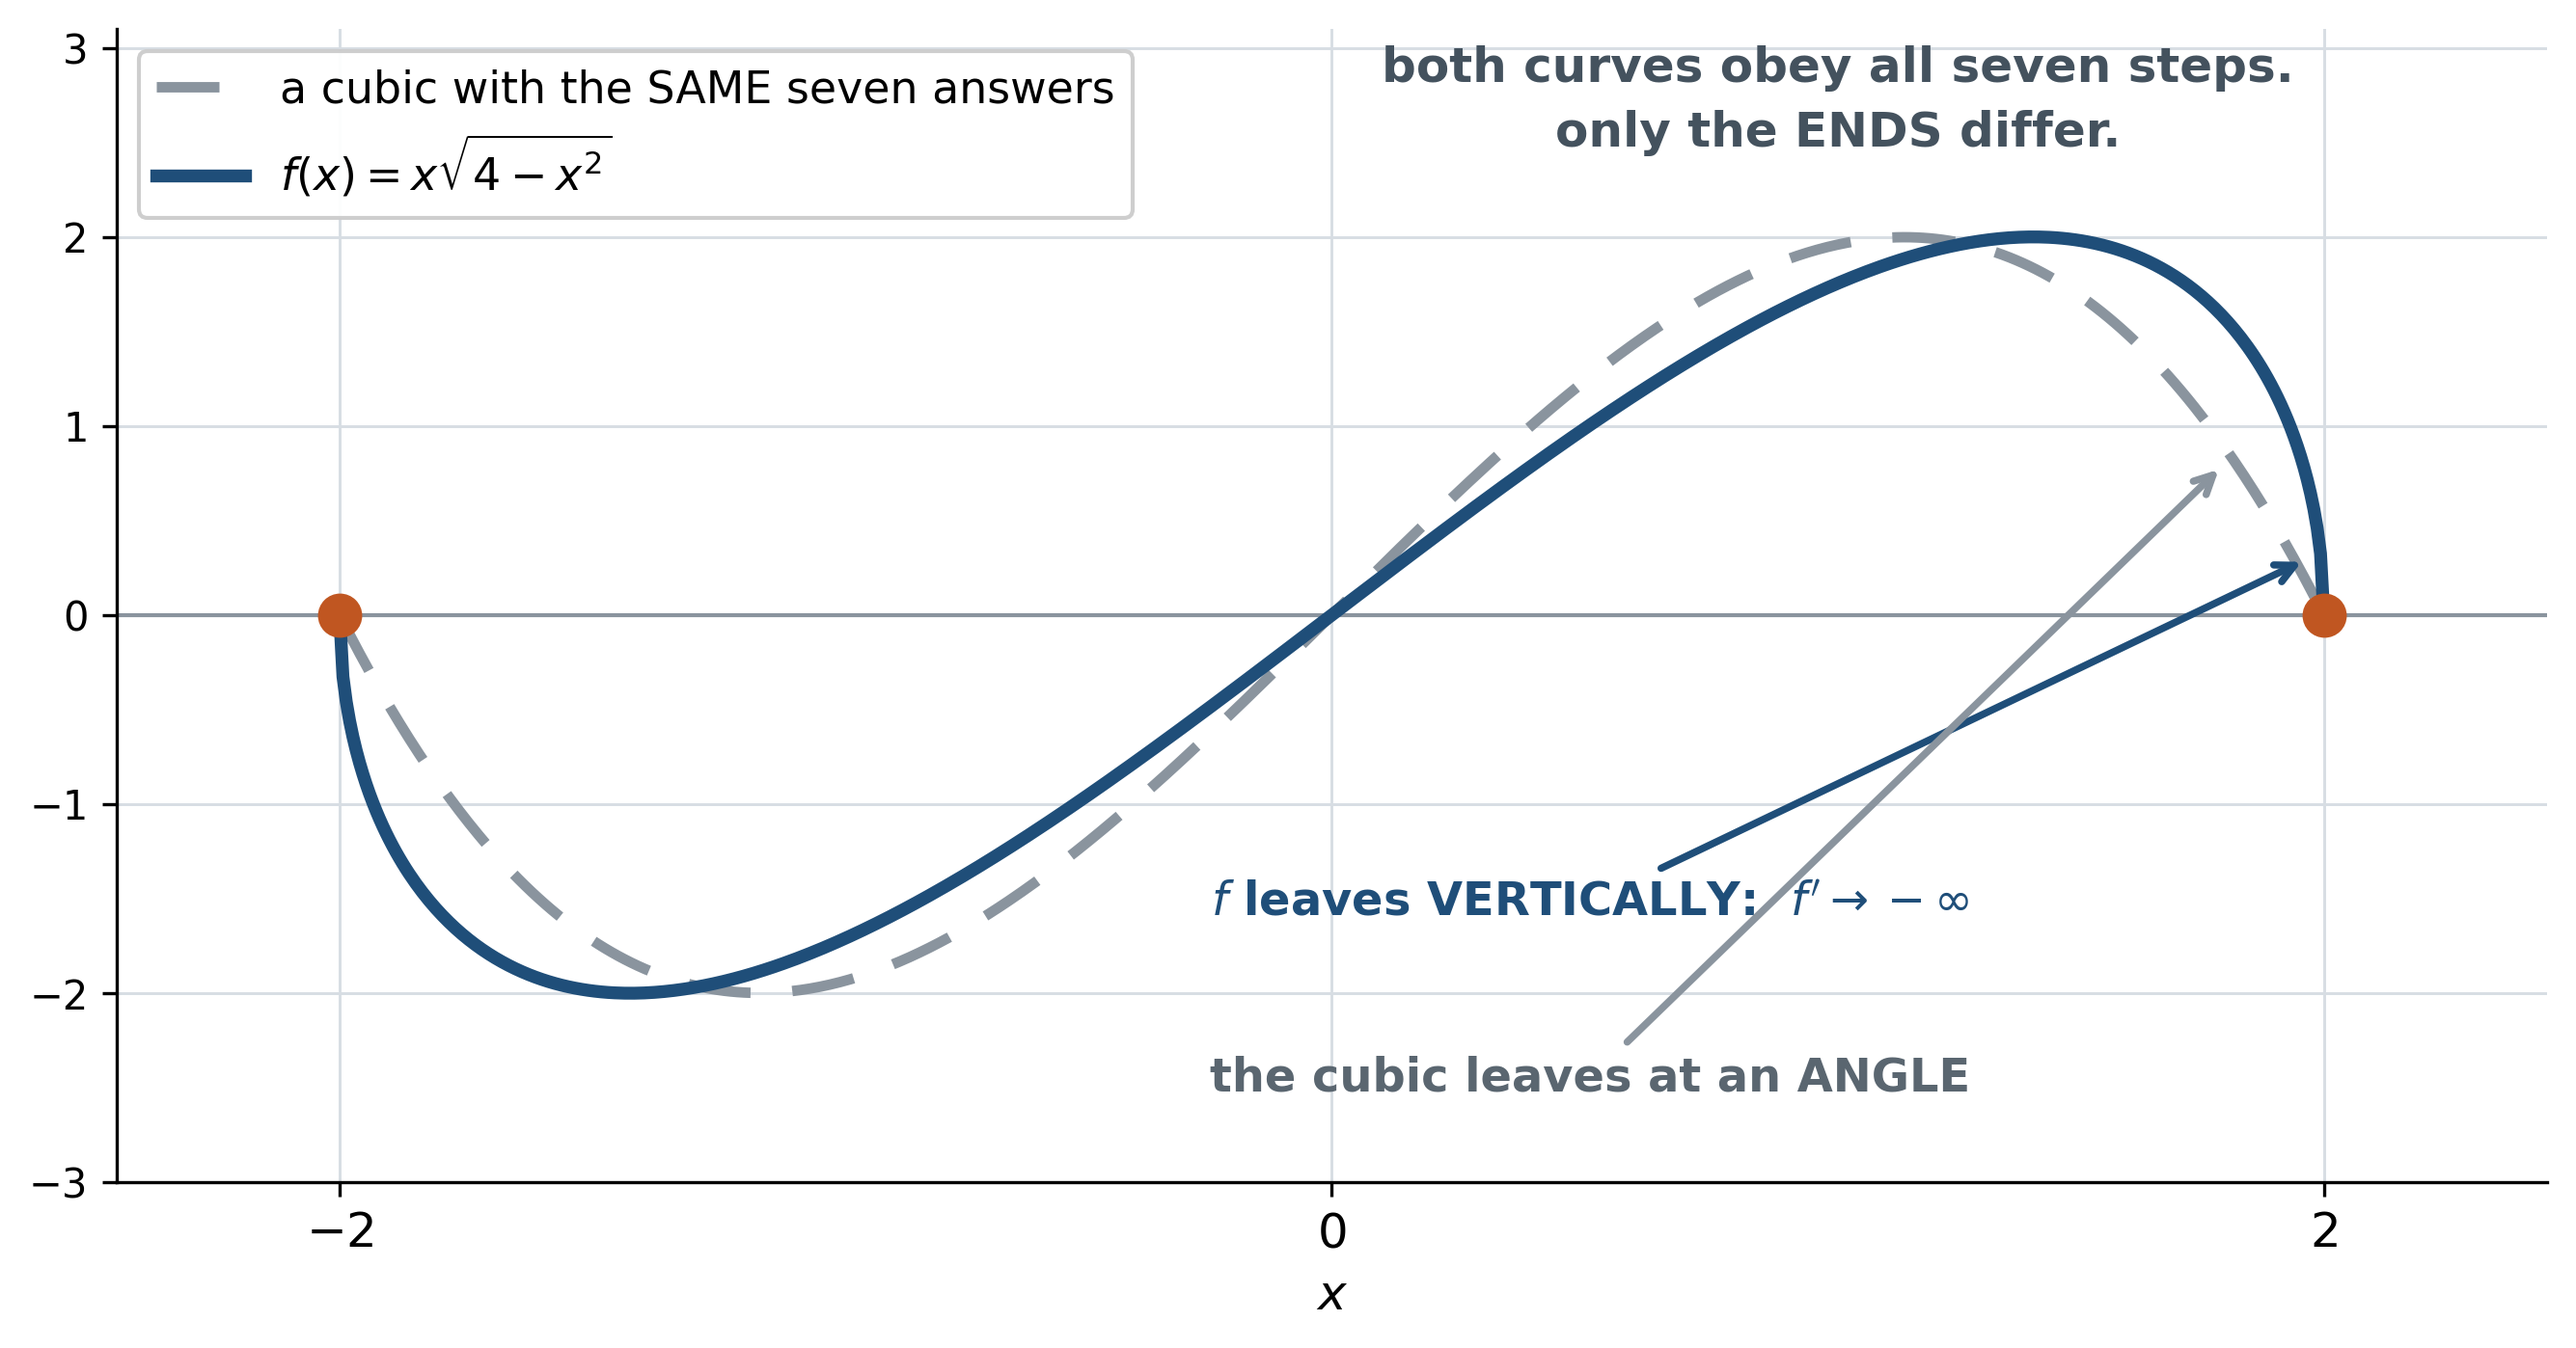
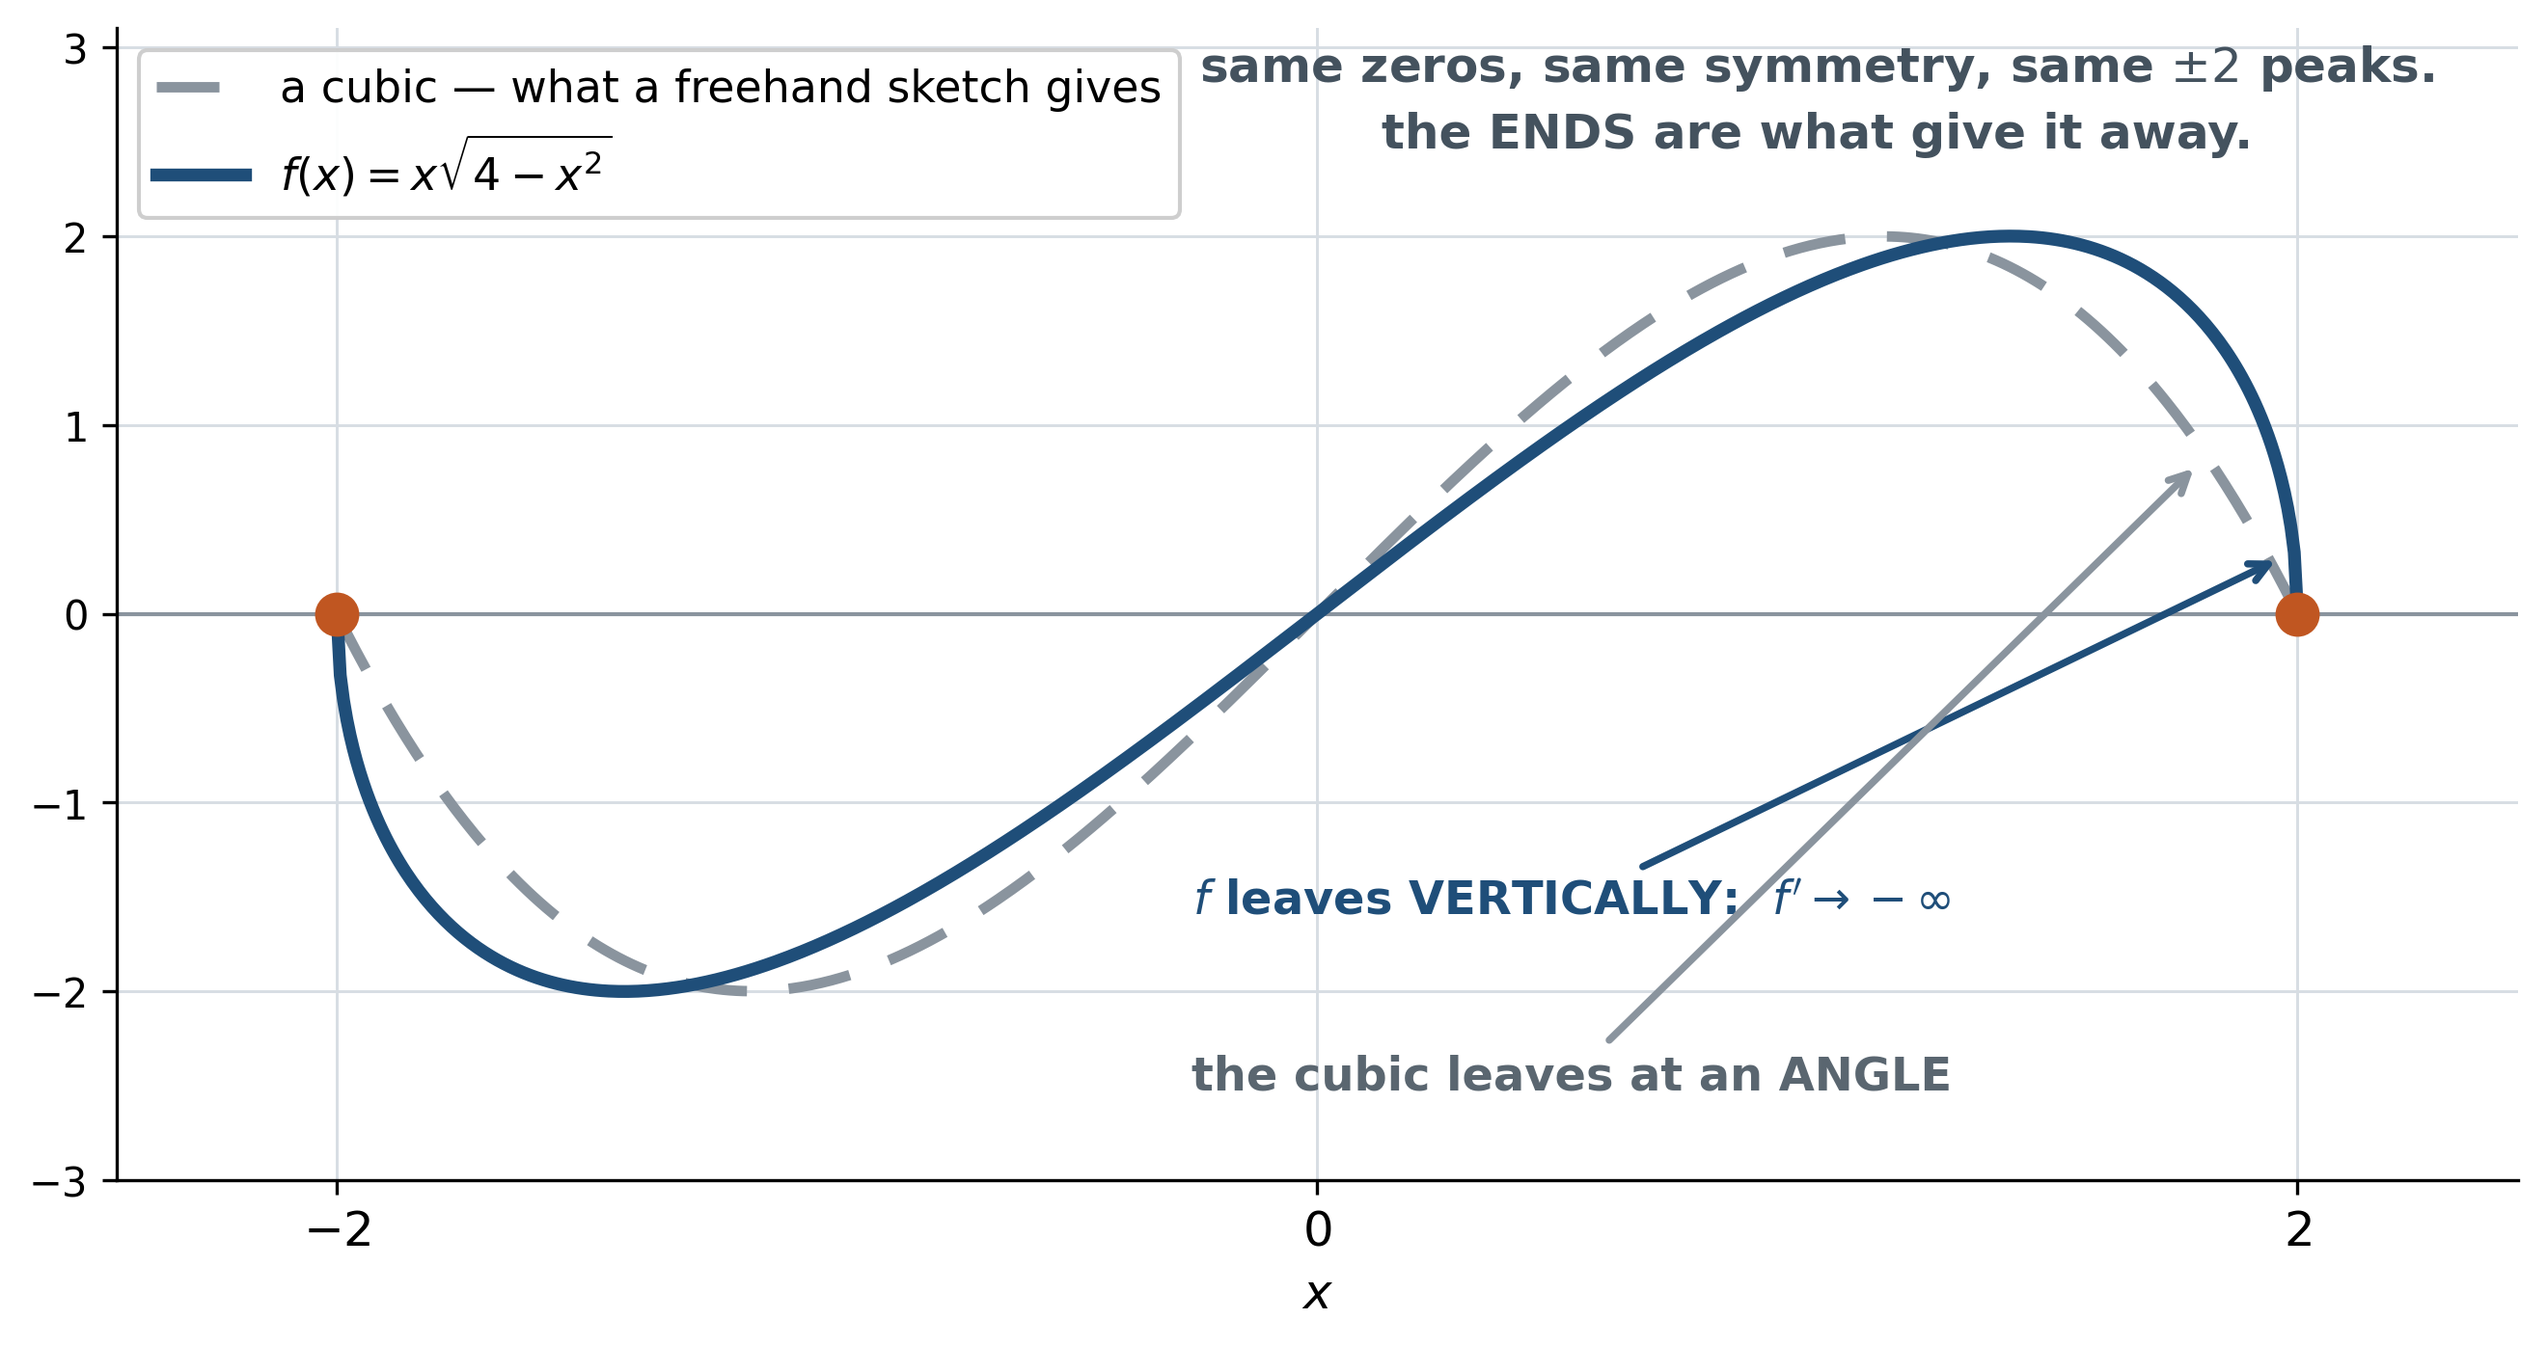
MTH207: update course resources

diff --git a/MTH207/notes/Section_4p5/Section_4p5_class.html b/MTH207/notes/Section_4p5/Section_4p5_class.html
@@ -328,7 +328,7 @@ in concavity is only an inflection point if the function is actually there.</str
 This is the same mistake as $\displaystyle f''(c)=0$ implying an inflection point, wearing
 different clothes &mdash; and it is why the domain is step 1.</p></div>
 </section>
-<section class="beat" aria-label="Your Turn: When Step 1 Does Real Work" data-source-line="313">
+<section class="beat" aria-label="Your Turn: When Step 1 Does Real Work" data-source-line="322">
   <h2>Your Turn: When Step 1 Does Real Work</h2>
 <p>Every function so far has been defined almost everywhere, so step 1 was a
 formality. Not this one.</p>
@@ -386,10 +386,16 @@ instead of easing into it.
      vertically with f prime going to minus infinity, and the other that the
      cubic leaves at an angle."></button></figure>
 <span style="display:block;height:0.2em"></span>
-⚠ <strong>This is why it matters.</strong> The dashed curve satisfies <em>every
-one</em> of your seven answers &mdash; same domain, same intercepts, same symmetry,
-same intervals, same extrema, same single inflection point. It is a cubic,
-and it is what you will draw if you never look at $\displaystyle f'$ at the ends.
+⚠ <strong>This is why it matters.</strong> The dashed curve has the same intercepts,
+the same symmetry, the same four shapes in the same order, the same single
+inflection point at the origin, and peaks at exactly $\displaystyle \pm2$ &mdash; everything
+you would check <em>by eye</em>. It is a cubic, and it is what you will draw if
+you never look at $\displaystyle f'$ at the ends.
+<span style="display:block;height:0.2em"></span>
+It is not a perfect match: a cubic turns at $\pm\frac{2}{\sqrt{3}} \approx
+\pm1.155$\displaystyle  rather than at $\pm\sqrt{2} \approx \pm1.414$, and it does not stop
+at $\displaystyle \pm2$ &mdash; it keeps going. But nobody catches that freehand. The ends are
+what give it away.
 <figure style="width:84%"><button type="button" class="zoom" data-src="figures/sketch_radical.png" aria-label="Enlarge figure"><img src="figures/sketch_radical.png" alt="The graph of f of x equals x times the square root of four
      minus x squared on the closed interval minus two to two. The curve
      starts at minus two on the x axis dropping steeply, falls to a marked
@@ -408,14 +414,14 @@ arrives vertically; if $\displaystyle f'$ is finite it arrives at a slant. Steps
 <em>where</em> the curve goes; the endpoints fix <em>how it gets there</em>, and
 a sketch that ignores them is a cubic in disguise.</p></div>
 </section>
-<section class="beat" aria-label="Where We Are" data-source-line="406">
+<section class="beat" aria-label="Where We Are" data-source-line="421">
   <h2>Where We Are</h2>
 <ul><li>Seven steps, in order, before you draw anything.</li><li>Vertical asymptotes come from the <strong>domain</strong>; horizontal ones from
       <strong>limits at infinity</strong>, which is §2.6 or l'Hospital.</li><li>A concavity change is only an inflection point if $\displaystyle f$ is defined there.</li></ul>
 <p>Tomorrow: a function whose asymptote is one-sided, and then the exact shape
 Exam 3 asks for.</p>
 </section>
-<section class="beat" aria-label="My Turn: An Asymptote on One Side Only" data-source-line="428">
+<section class="beat" aria-label="My Turn: An Asymptote on One Side Only" data-source-line="443">
   <h2>My Turn: An Asymptote on One Side Only</h2>
   <div class="turn my"><span class="badge">My turn</span><p>Sketch $\displaystyle f(x) = x^{2}e^{-x}$.</p></div>
   <details class="sol"><summary>Show: steps 1&ndash;4</summary>
@@ -466,7 +472,7 @@ questions, every time. And the curve <strong>approaches $\displaystyle y=0$ with
 reaching it</strong> for $\displaystyle x>0$, while sitting <em>on</em> it at $\displaystyle x=0$: touching an
 asymptote is allowed.</p></div>
 </section>
-<section class="beat" aria-label="Your Turn: Exactly What Exam 3 Asks" data-source-line="491">
+<section class="beat" aria-label="Your Turn: Exactly What Exam 3 Asks" data-source-line="506">
   <h2>Your Turn: Exactly What Exam 3 Asks</h2>
 <p>Exam 3's biggest question gives you the function <em>and both derivatives</em>,
 then asks for the four readings and a sketch. Here is that shape.</p>
@@ -534,7 +540,7 @@ No Quotient Rule, because the derivatives were handed to you &mdash; and on
 Exam 3 they will be. The 20 points are for <strong>assembling</strong>, so practise
 assembling.</p></div>
 </section>
-<section class="beat" aria-label="For Reference: A Fractional Exponent, and a Cusp" data-source-line="583">
+<section class="beat" aria-label="For Reference: A Fractional Exponent, and a Cusp" data-source-line="598">
   <h2>For Reference: A Fractional Exponent, and a Cusp</h2>
 <p>Not worked in class &mdash; here so you have one of each shape to copy from. This
 one is the §4.3 algebra you have the <em>Simplifying Derivatives</em> handout
@@ -574,7 +580,7 @@ The graph comes to a point there instead of turning smoothly. $\displaystyle x^{
 the second derivative is <strong>positive</strong> on both sides, which is why the
 concavity does <em>not</em> change at $\displaystyle 0$.</p></div>
 </section>
-<section class="beat" aria-label="For Reference: A Trigonometric One" data-source-line="630">
+<section class="beat" aria-label="For Reference: A Trigonometric One" data-source-line="645">
   <h2>For Reference: A Trigonometric One</h2>
 <p>Also not worked in class. The checklist does not change for trig &mdash; but the
 interval does, and the cuts come from solving a trig equation rather than
@@ -613,7 +619,7 @@ interval the endpoints are candidates for absolute extrema even though
 $\displaystyle g'$ is not zero there &mdash; here $\displaystyle g(2\pi) = 2\pi + 2$ is the absolute maximum,
 beating the local maximum at $\displaystyle \pi/6$.</p></div>
 </section>
-<section class="beat" aria-label="What You Should Be Able to Do" data-source-line="675">
+<section class="beat" aria-label="What You Should Be Able to Do" data-source-line="690">
   <h2>What You Should Be Able to Do</h2>
 <ul><li>Run the seven-step checklist in order on a polynomial, a rational
       function and an exponential.</li><li>Find vertical asymptotes from the domain and horizontal ones from
